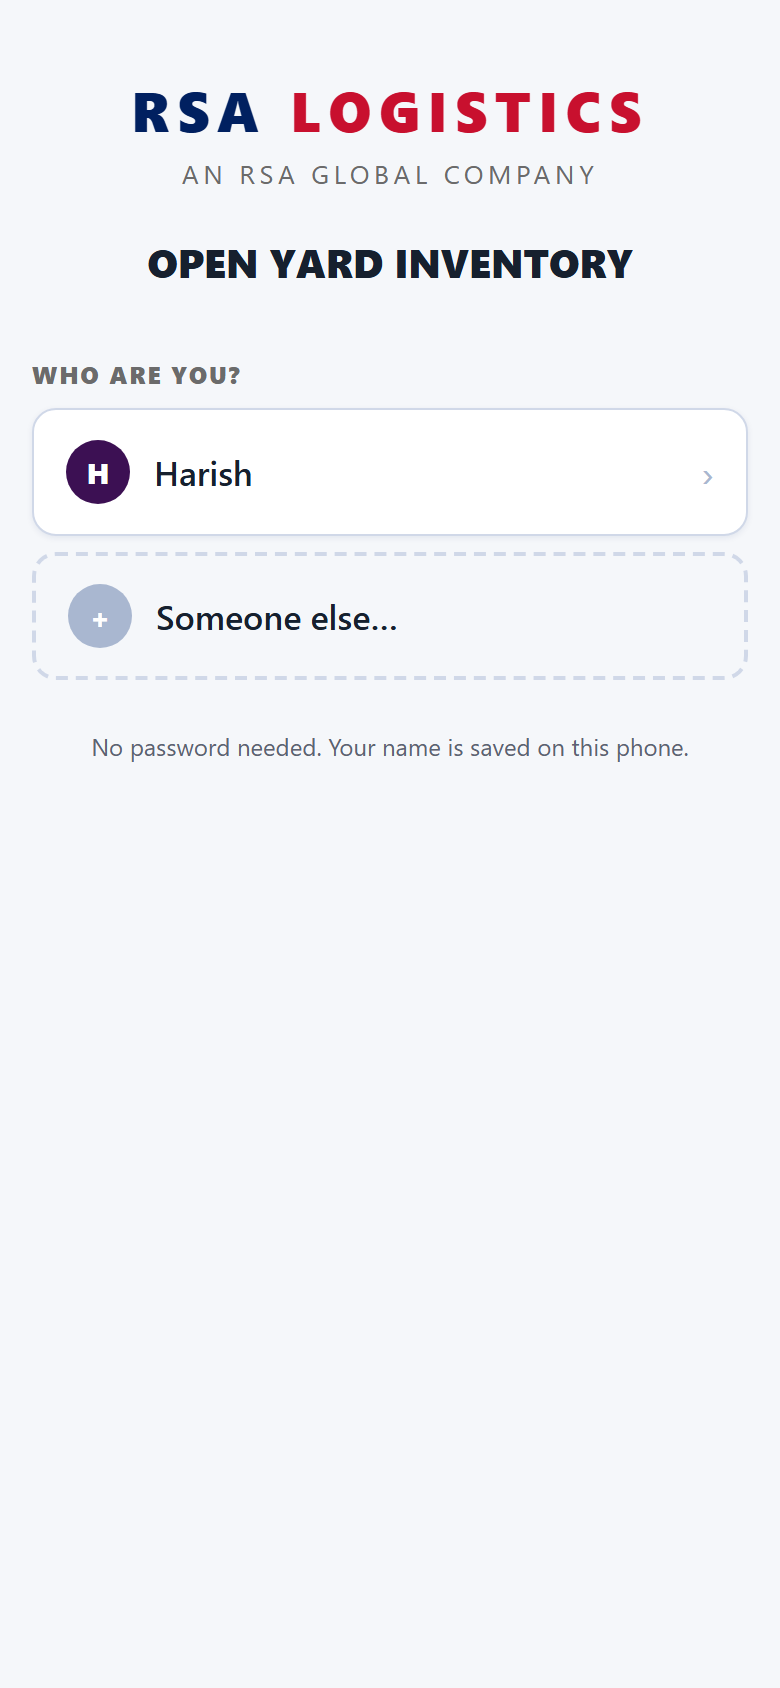
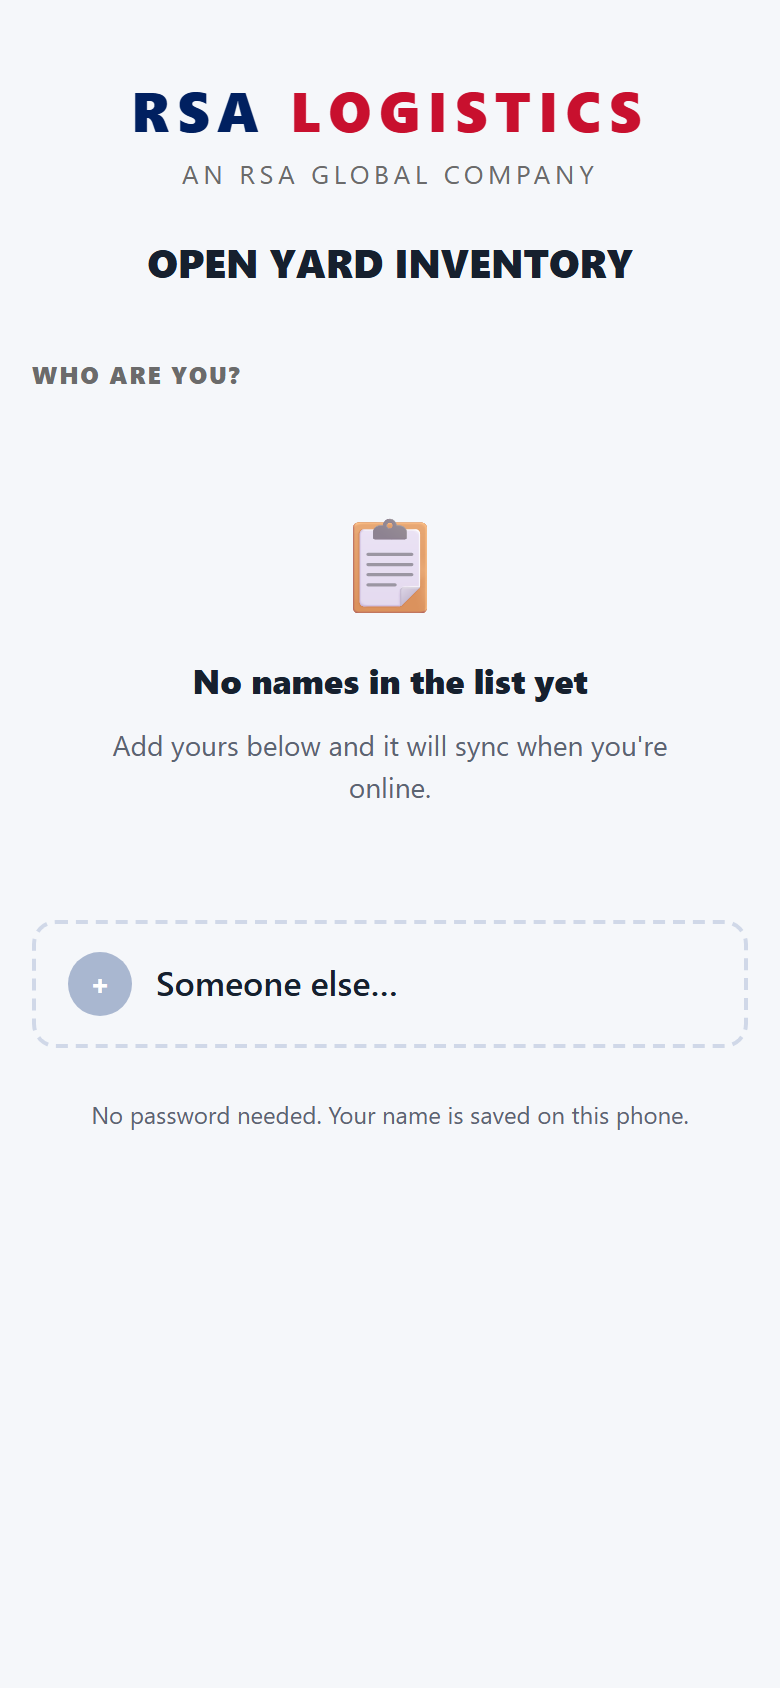
Don't tell the user there are no names while the list is still loading
The first-run picker showed its empty state — 'No names in the list yet' —
whenever SY.state.users was empty, including during the initial load. Apps
Script cold-starts, so on a slow connection a yard worker's first impression
was the app stating something false, which they would then act on by typing a
name that already exists.

It now shows a loading state until a load has actually completed (success or
failure), and only then distinguishes a genuinely empty list.

verify-mobile.mjs polls for the list instead of sampling once at 9s, which is
what made this intermittent rather than obvious.

sw cache -> oy-inventory-v5.

diff --git a/docs/index.html b/docs/index.html
@@ -533,6 +533,7 @@ const ui = {
   itemSearch: '',
   rcvSku: null, issSku: null,
   pickerTarget: null,
+  usersLoaded: false,      // distinguishes "no names" from "not loaded yet"
   sheetStack: []
 };
 
@@ -694,10 +695,16 @@ async function render() {
 function renderNames() {
   const list = $('nameList');
   const names = SY.state.users;
+  if (!names.length && !ui.usersLoaded) {
+    // Still loading. Saying "no names" here would be a lie the user acts on.
+    list.innerHTML = '<div class="skel"></div><div class="skel"></div><div class="skel"></div>'
+      + '<p style="text-align:center;font-size:var(--fs-sm);color:var(--muted)">Loading names…</p>';
+    return;
+  }
   if (!names.length) {
     list.innerHTML = `<div class="empty"><span class="g">📋</span>
       <h3>No names in the list yet</h3>
-      <p>Add yours below and it will sync when you're online.</p></div>`;
+      <p>Add yours below — it will sync when you're online.</p></div>`;
     return;
   }
   list.innerHTML = names.map(nm => `
@@ -1724,6 +1731,7 @@ async function init() {
   try {
     msg.textContent = 'Loading saved data…';
     await SY.loadFromCache();
+    if (SY.state.users.length) ui.usersLoaded = true;
     await OB.recoverInFlight();
     paintUser();
 
@@ -1737,7 +1745,9 @@ async function init() {
     try {
       await SY.bootstrap();
       SY.state.online = true;
+      ui.usersLoaded = true;
     } catch (err) {
+      ui.usersLoaded = true;   // done trying; the cache is all we have
       SY.state.online = false;
       if (err instanceof ApiError && err.code === 'NEEDS_AUTH') {
         toast(err.message, 'error');

diff --git a/docs/sw.js b/docs/sw.js
@@ -4,7 +4,7 @@
  * BUMP `CACHE` ON EVERY CHANGE to index.html or lib/*.js. Forgetting this is the
  * number one cause of "why is my phone still showing the old version".
  */
-const CACHE = 'oy-inventory-v4';
+const CACHE = 'oy-inventory-v5';
 
 const SHELL = [
   './',
